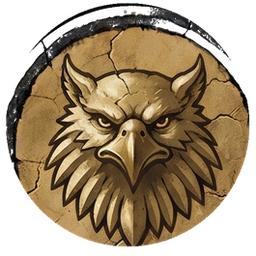
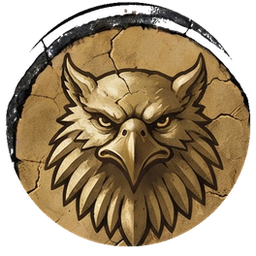
Doprecyzuj centrowanie medalionów: fill badge + PNG na środku dysku
Usuwa konflikt z globalnym rozmiarem .ico-school-img i lekko
przycina przezroczyste brzegi assetów w kółku.

diff --git a/wiedzmin-helper/css/styles.css b/wiedzmin-helper/css/styles.css
@@ -892,13 +892,12 @@ h3 {
 
 .roster-card-badge .ico-school-img .ico-img {
   display: block;
-  /* Overscale + lekki lift: PNG wypełnia kółko; rysunek zwierzęcia w assetach siedzi nisko. */
-  width: 118%;
-  height: 118%;
+  /* 100%+ overscale: medalion wypełnia kółko (globalne .ico-school-img to 1.75rem). */
+  width: 112%;
+  height: 112%;
   max-width: none;
   object-fit: cover;
   object-position: center;
-  transform: translateY(-6%);
 }
 
 .roster-card-fields {
@@ -1744,12 +1743,11 @@ h3 {
 
 .order-avatar .ico-school-img .ico-img {
   display: block;
-  width: 118%;
-  height: 118%;
+  width: 112%;
+  height: 112%;
   max-width: none;
   object-fit: cover;
   object-position: center;
-  transform: translateY(-6%);
 }
 
 .order-identity {
